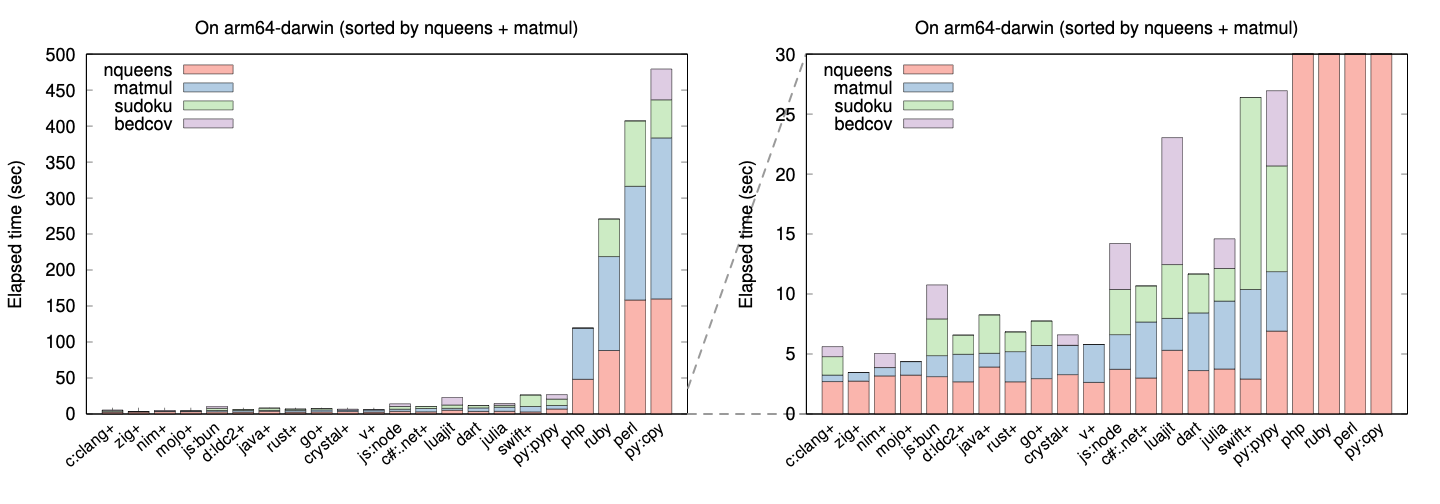
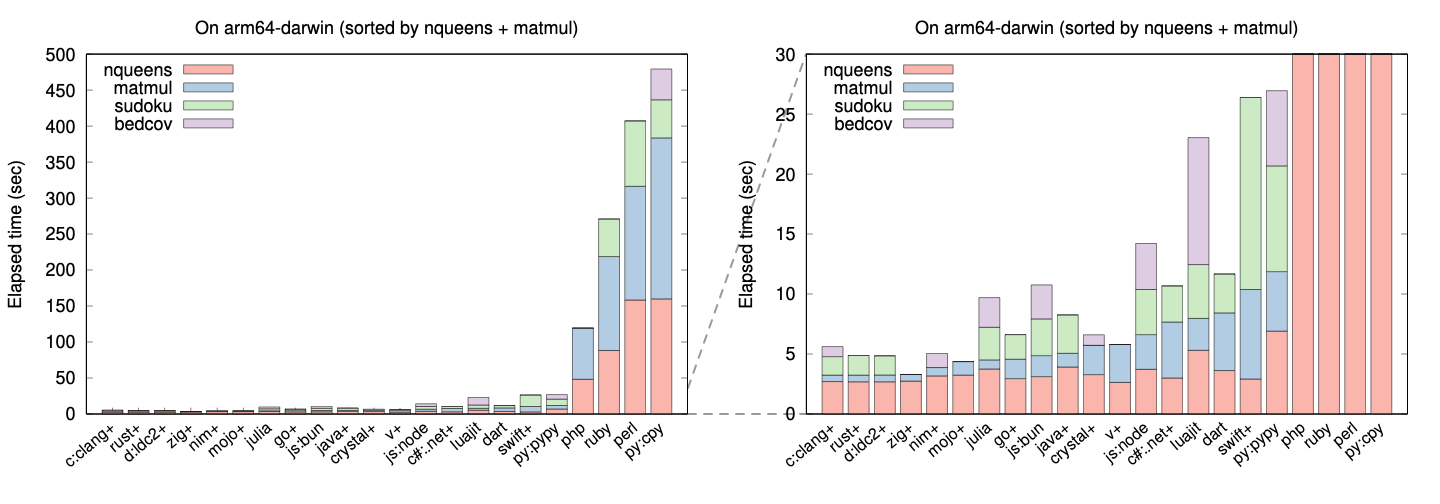
incorporating #1, #2, #3, #4, #6

diff --git a/README.md b/README.md
@@ -170,15 +170,15 @@ not optimistic.
 |c:clang+ |C         |Clang  |15.0.0 | 2.70   | 0.54   | 1.54   | 0.84   |
 |crystal+ |Crystal   |       |1.10.0 | 3.28   | 2.45   |        | 0.87   |
 |c#:.net+ |C#        |.NET   |8.0.100| 3.00   | 4.67   | 3.01   |        |
-|d:ldc2+  |D         |LDC2   |2.105.2| 2.68   | 2.30   | 1.60   |        |
+|d:ldc2+  |D         |LDC2   |2.105.2| 2.68   | 0.57   | 1.60   |        |
 |dart     |Dart      |(JIT)  |3.2.4  | 3.62   | 4.81   | 3.24   |        |
-|go+      |Go        |       |1.21.5 | 2.94   | 2.77   | 2.04   |        |
+|go+      |Go        |       |1.21.5 | 2.94   | 1.63   | 2.04   |        |
 |java+    |Java      |OpenJDK|20.0.1 | 3.92   | 1.14   | 3.20   |        |
 |js:bun   |JavaScript|Bun    |1.0.20 | 3.11   | 1.75   | 3.07   | 2.83   |
 |js:deno  |JavaScript|Deno   |1.39.1 | 4.00   | 3.06   | 4.04   | 3.87   |
 |js:k8    |JavaScript|k8     |1.0    | 3.79   | 2.99   | 3.76   | 4.02   |
 |js:node  |JavaScript|Node   |21.5.0 | 3.73   | 2.88   | 3.77   | 3.83   |
-|julia    |Julia     |       |1.10.0 | 3.75   | 5.66   | 2.72   | 2.47   |
+|julia    |Julia     |       |1.10.0 | 3.75   | 0.76   | 2.72   | 2.47   |
 |luajit   |Lua       |LuaJIT |2.1    | 5.31   | 2.66   | 4.48   | 10.59  |
 |mojo+    |Mojo      |       |0.6.1  | 3.24   | 1.12   |        |        |
 |nim+     |Nim       |       |2.0.2  | 3.18   | 0.69   |        | 1.18   |
@@ -187,10 +187,10 @@ not optimistic.
 |py:pypy  |Python    |Pypy   |7.3.14 | 6.91   | 4.95   | 8.82   | 6.27   |
 |py:cpy   |Python    |CPython|3.11.7 | 159.97 | 223.66 | 52.88  | 42.84  |
 |ruby     |Ruby      |(YJIT) |3.3.0  | 88.15  | 130.51 | 52.26  |        |
-|rust+    |Rust      |       |1.75.0 | 2.68   | 2.51   | 1.65   |        |
+|rust+    |Rust      |       |1.75.0 | 2.68   | 0.56   | 1.65   |        |
 |swift+   |Swift     |       |5.9.0  | 2.92   | 7.46   | 16.02  |        |
 |v+       |V         |       |0.4.3  | 2.63   | 3.17   |        |        |
-|zig+     |Zig       |       |0.11.0 | 2.74   | 0.73   |        |        |
+|zig+     |Zig       |       |0.11.0 | 2.74   | 0.56   |        |        |
 
 [plb]: https://github.com/attractivechaos/plb
 [8queen]: https://en.wikipedia.org/wiki/Eight_queens_puzzle
